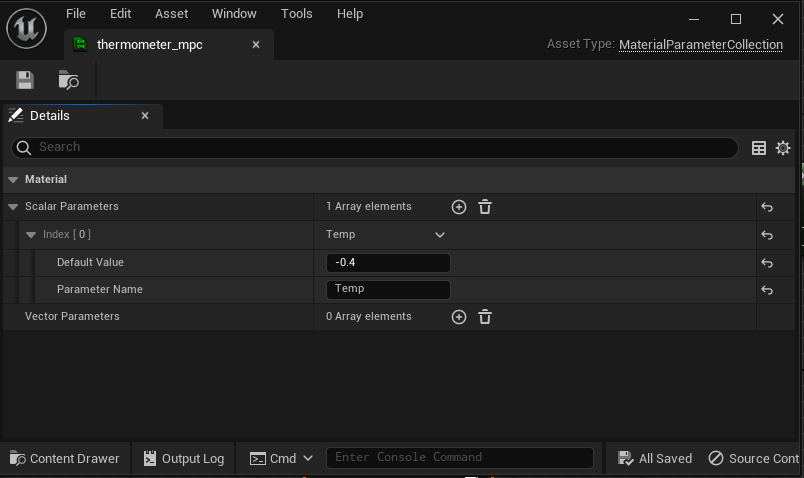
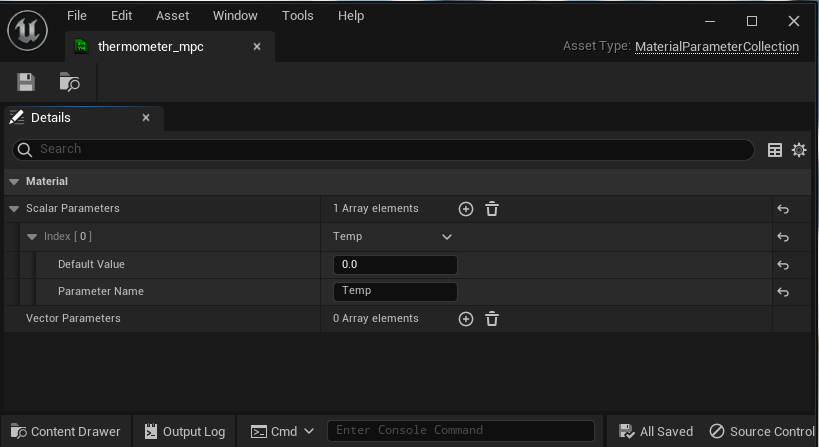
simplify example

diff --git a/articles/dynamic_therm.html b/articles/dynamic_therm.html
@@ -512,7 +512,7 @@
             <p>
                 Then make a new material with the following nodes:
 
-                <img class="bigImg" src="../assets/images/therm_mat.jpg">
+                <img class="bigImg" src="../assets/images/therm_mat.png">
 
                 The `Temp` parameter is a Material Parameter Collection, pointing to the MPC we created in the previous
                 step.
@@ -521,7 +521,7 @@
 
                 <br />
 
-                As `Temp` fluctuates from [-0.5, 0.5] the bar will change from 0 - 100% full
+                As `Temp` fluctuates from [0.0, 1.0] the bar will change from 0 - 100% full
 
             <div class="code">
                 <pre>
@@ -536,8 +536,8 @@ void AThermometer::Tick(float DeltaTime)
         // pci is the MPC we made
         if (pci)
         {
-            // Convert the [0, 100] temp to [-0.5, 0.5]:
-            float matTemp = CurrentTemp / 100.0f - 0.5;
+            // Convert the [0, 100] temp to [0.0 1.0]:
+            float matTemp = CurrentTemp / 100.0f;
 
             pci->SetScalarParameterValue(FName("Temp"), FMath::Lerp(startLerpTemp, matTemp, lerpTimeElapsed / lerpDuration));
 
